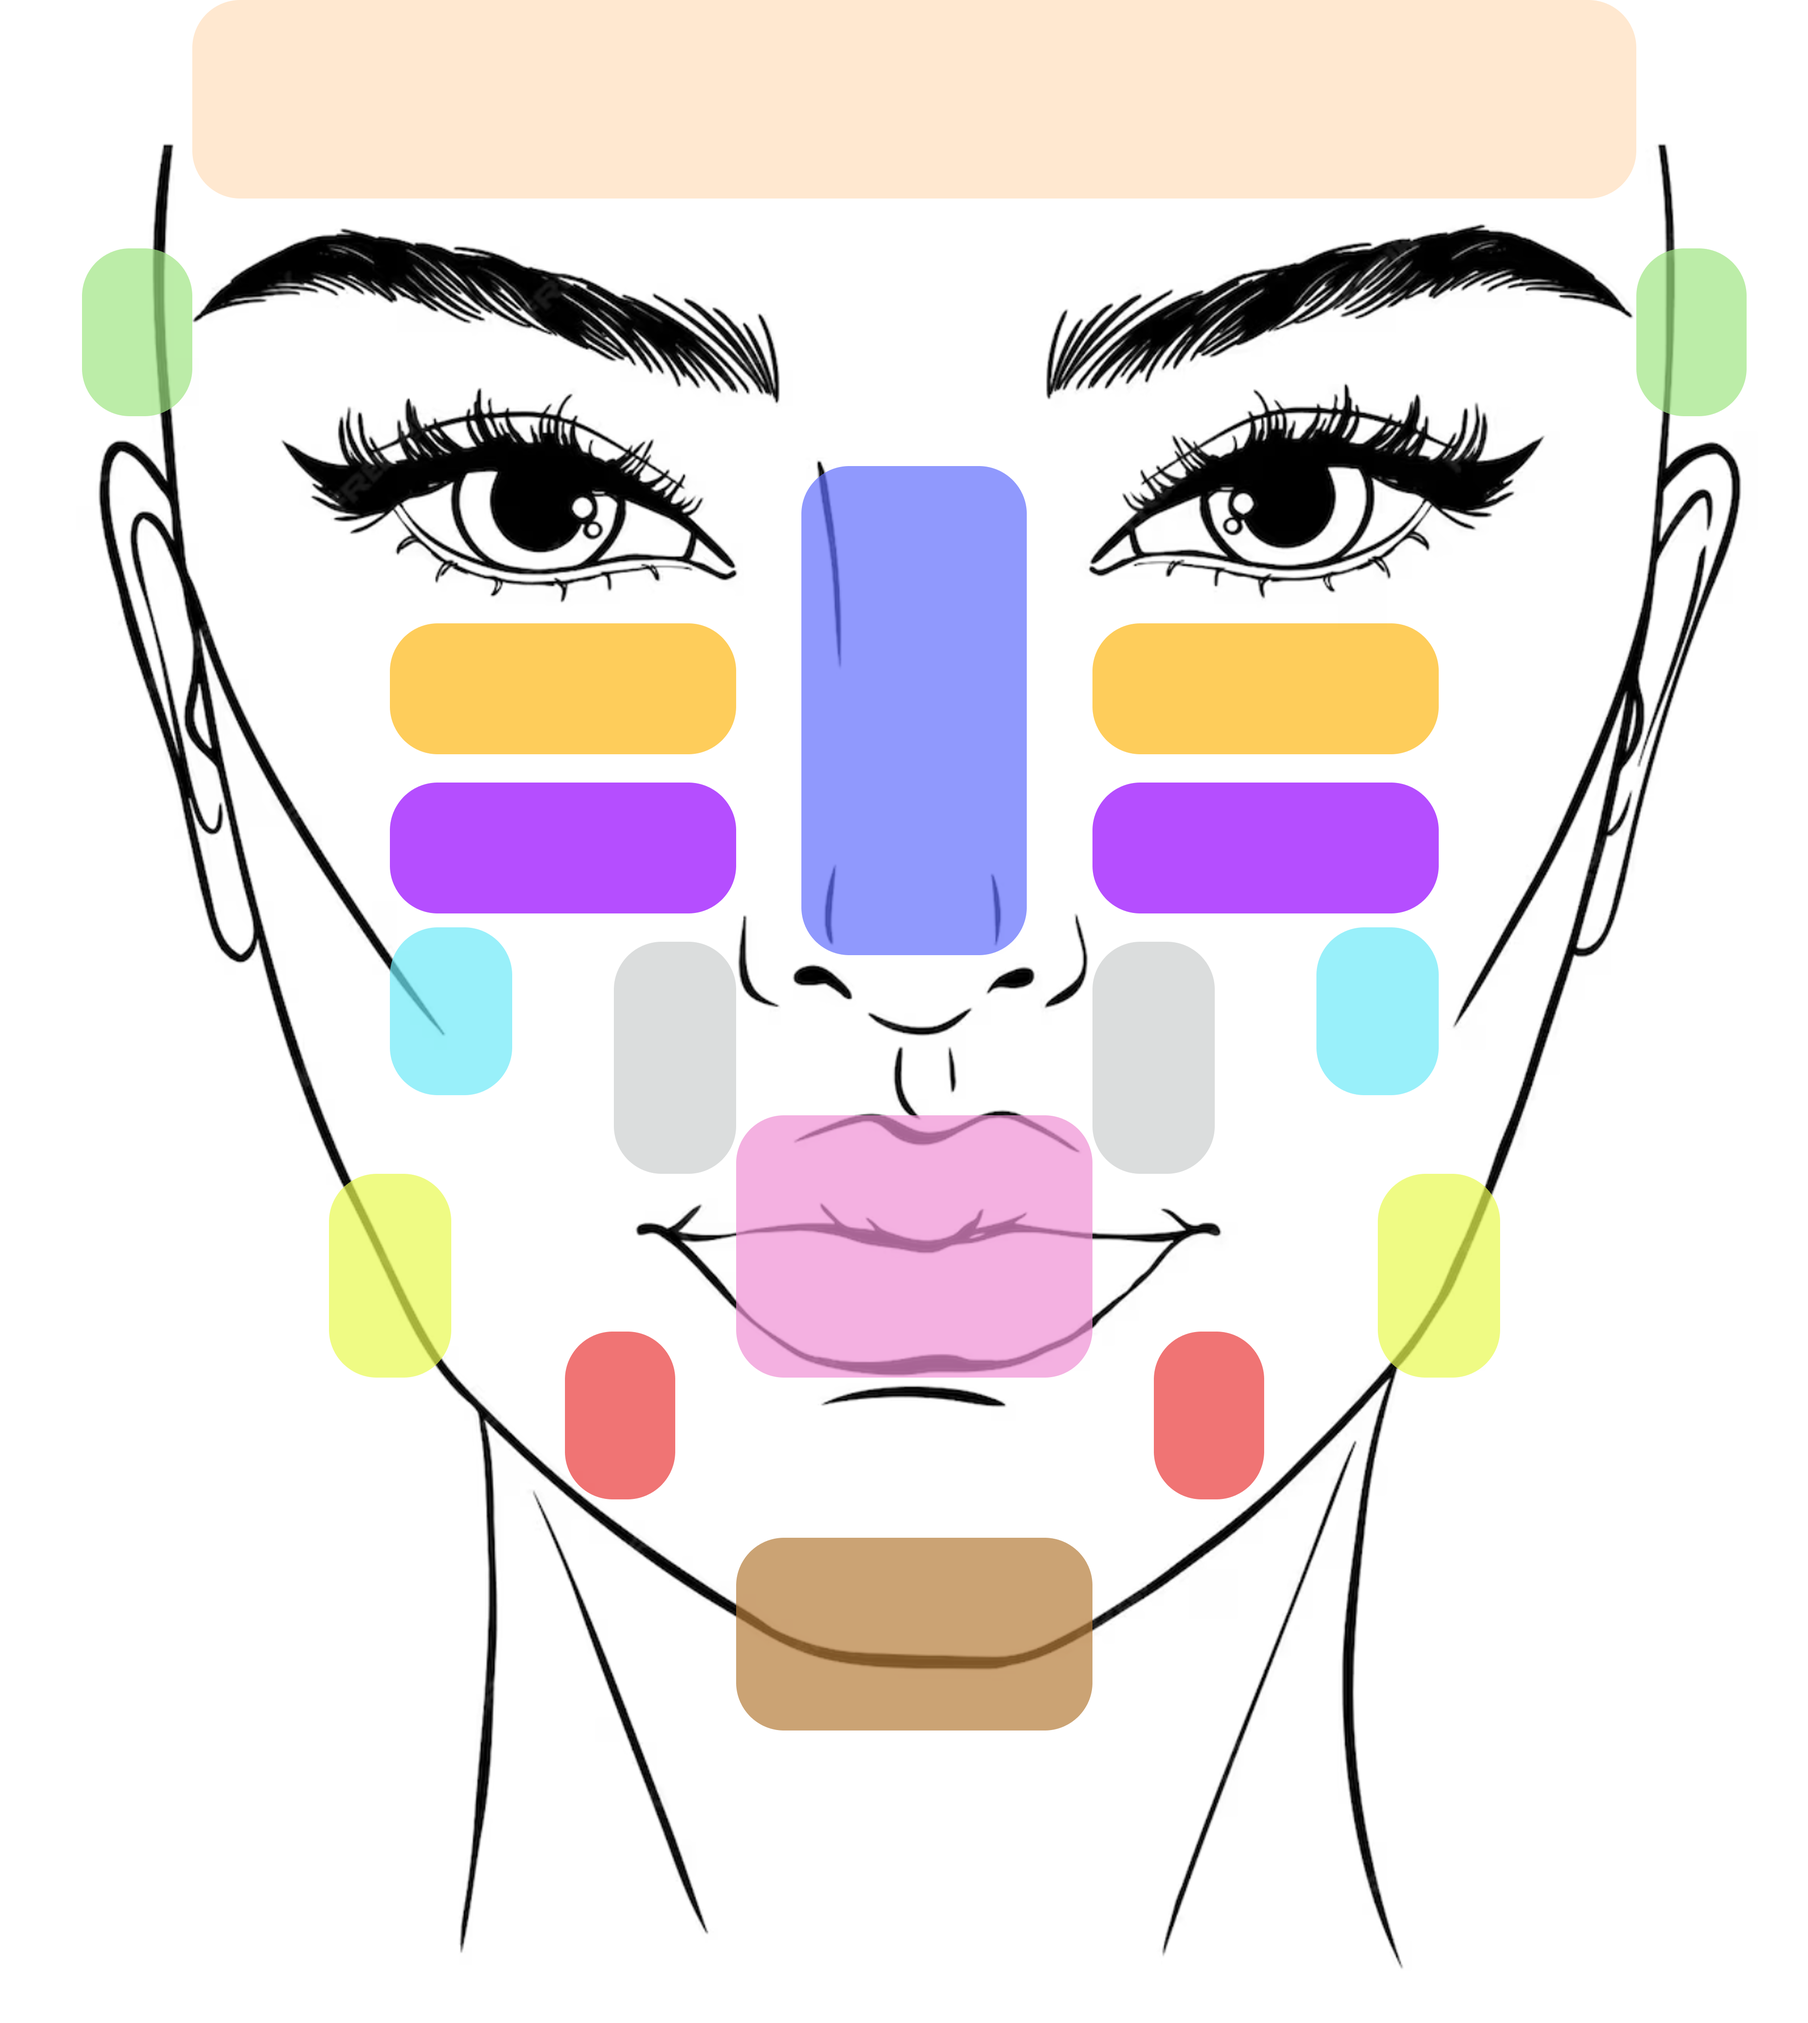
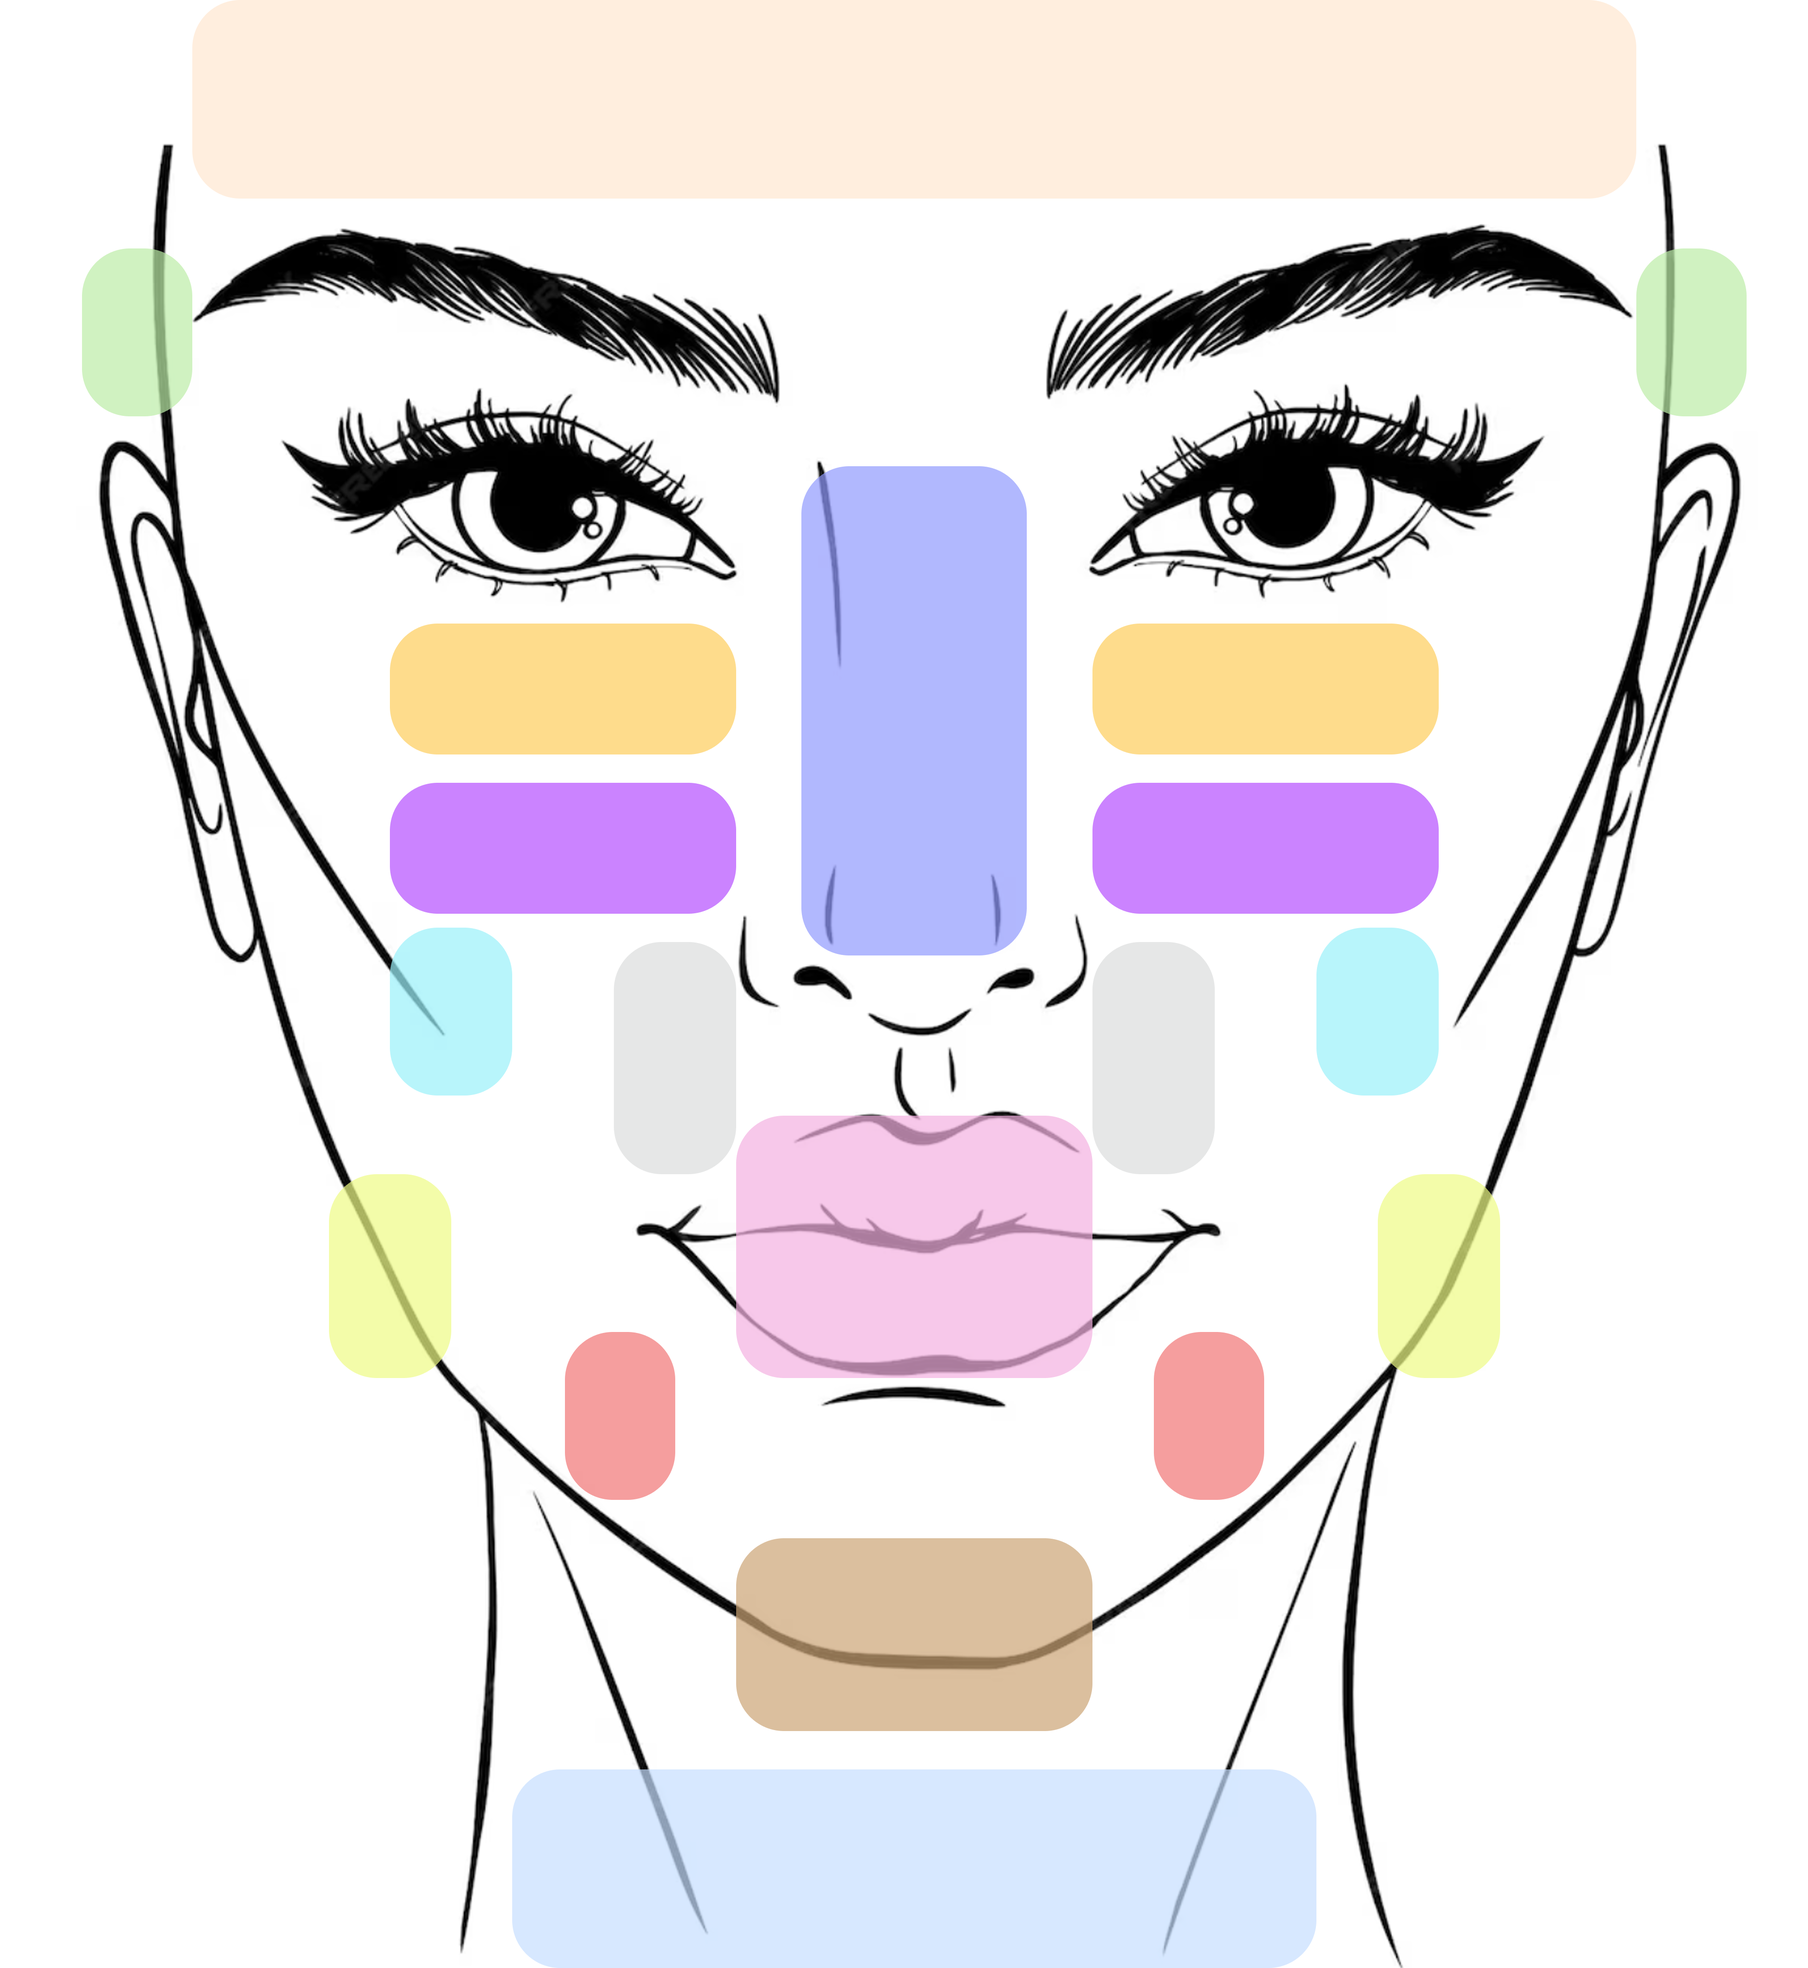
updates

Changed region(s): [[0.031, 0.0936, 0.9931, 1.0]]

diff --git a/components/FaceDiagram.js b/components/FaceDiagram.js
@@ -35,6 +35,7 @@ export default function FaceDiagram() {
       "میکرو",
       "لب",
       "چانه",
+      "گردن",
     ],
     بوتاکس: [
       "اوتلاین",
@@ -73,6 +74,7 @@ export default function FaceDiagram() {
     میکرو: "#F07474",
     لب: "#F4B1E1",
     چانه: "#CBA374",
+    گردن: "#C6DEFF",
   };
 
   const handleSubcategoryToggle = (subcategory) => {
